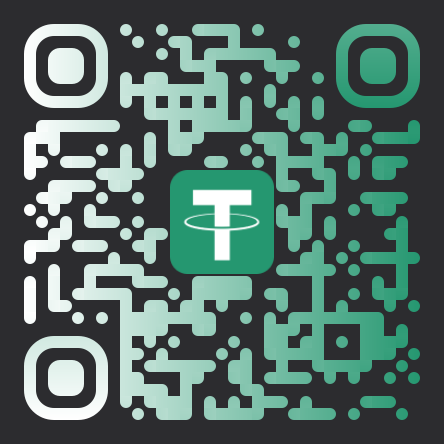
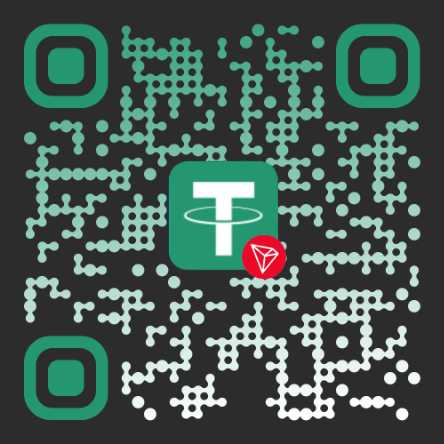
USDT

diff --git a/donate.md b/donate.md
@@ -16,11 +16,20 @@ UQDMkn2UKpkSyZK7-OHipFJKTXlb2qfoIvnbX1TbofXXMzl2
 
 ![](https://raw.githubusercontent.com/tatarinovms/tatarinovms.github.io/master/images/donation/TonCoin.png)
 
+
+### 💎 USDT TON 
+
+UQDMkn2UKpkSyZK7-OHipFJKTXlb2qfoIvnbX1TbofXXMzl2
+
+⚠ Отправляйте только USDT TON на этот адрес. Другие активы, такие как жетоны или NFT, будут безвозвратно утрачены!
+
+![](https://raw.githubusercontent.com/tatarinovms/tatarinovms.github.io/master/images/donation/USDTCoinTON.png)
+
 ### 💎 USDT TRON (TRC20) 
 
 TFRmcLSdRKjr5CbXreXkf46WQ9m2dCLRAx
 
-⚠ На этот адрес отправляйте только USDT TRON (TRC20). Другие монеты могут не дойти и будут утрачены.
+⚠ Отправляйте только USDT TRC20 на этот адрес. Другие активы, такие как жетоны или NFT, будут безвозвратно утрачены!
 
 ![](https://raw.githubusercontent.com/tatarinovms/tatarinovms.github.io/master/images/donation/USDTCoin.png)
 
